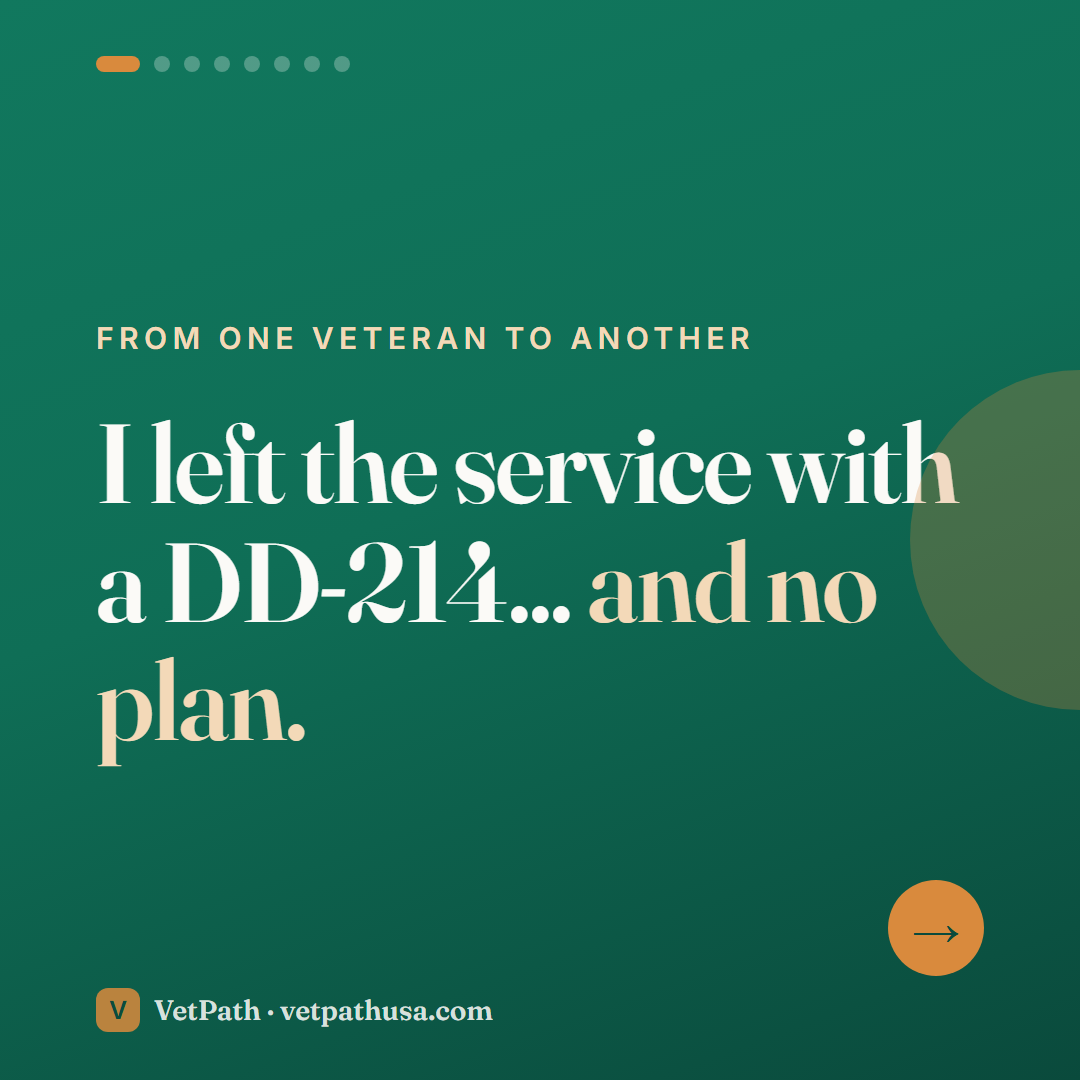
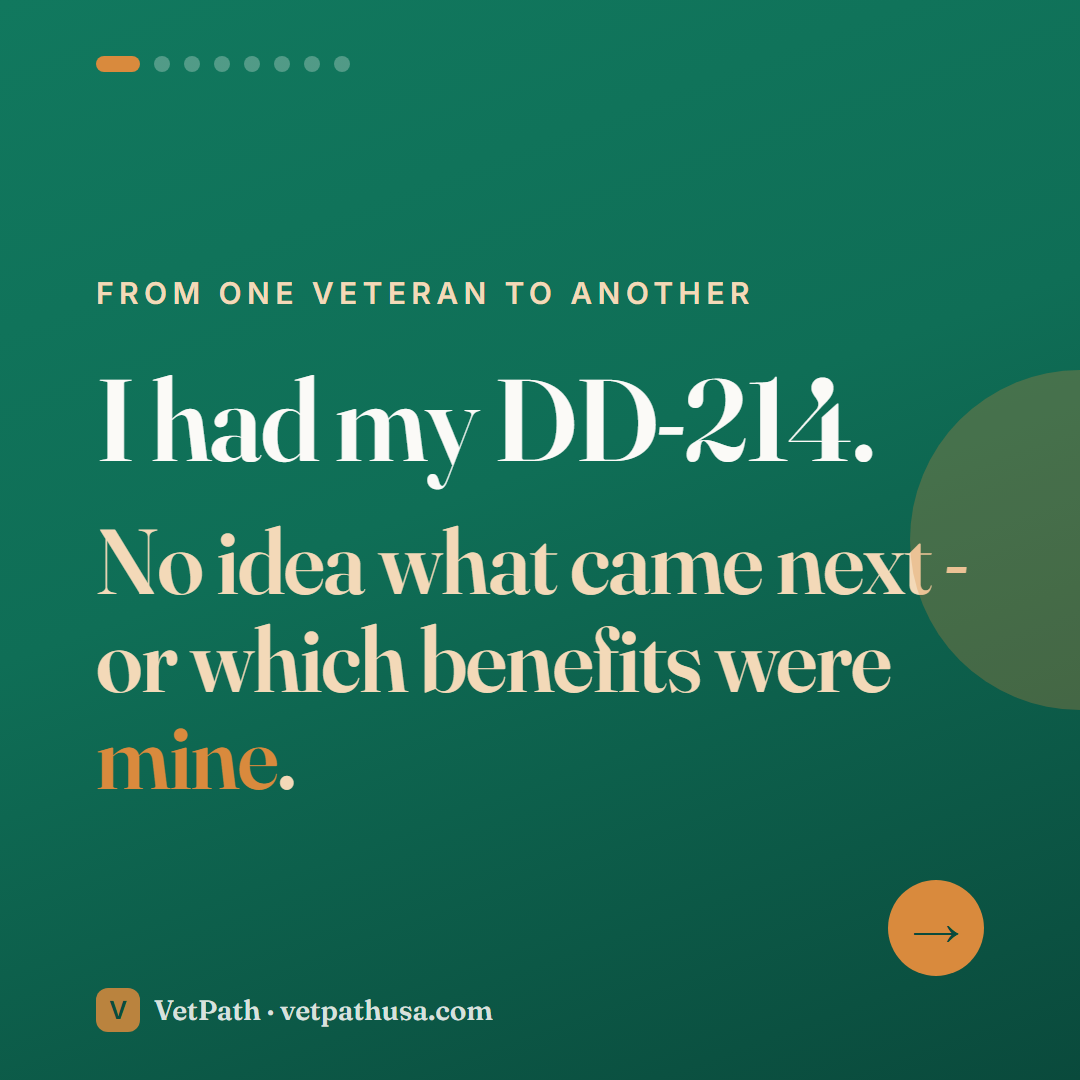
Carousel slide 1 redesign: lead with the confusion
Per Kaleb - the hook now carries both threads: not knowing what came
next, and not knowing which benefits were his. 'I had my DD-214.' /
'No idea what came next - or which benefits were mine.' with amber
emphasis on 'mine.' Alt text updated.

Changed region(s): [[0.0917, 0.2444, 0.8861, 0.7333]]

diff --git a/share/social/frank-social-post-kit.md b/share/social/frank-social-post-kit.md
@@ -81,7 +81,7 @@ government.)
 
 ## Alt text (paste one per slide - accessibility matters to this audience)
 
-1. "From one veteran to another: I left the service with a DD-214 and no plan." VetPath.
+1. "From one veteran to another: I had my DD-214. No idea what came next - or which benefits were mine." VetPath.
 2. "Nobody told me what I'd earned. I found out the hard way."
 3. "Benefits on 50 websites. Deadlines I didn't know existed."
 4. "I kept asking: why doesn't anyone hand you this on day one?"
